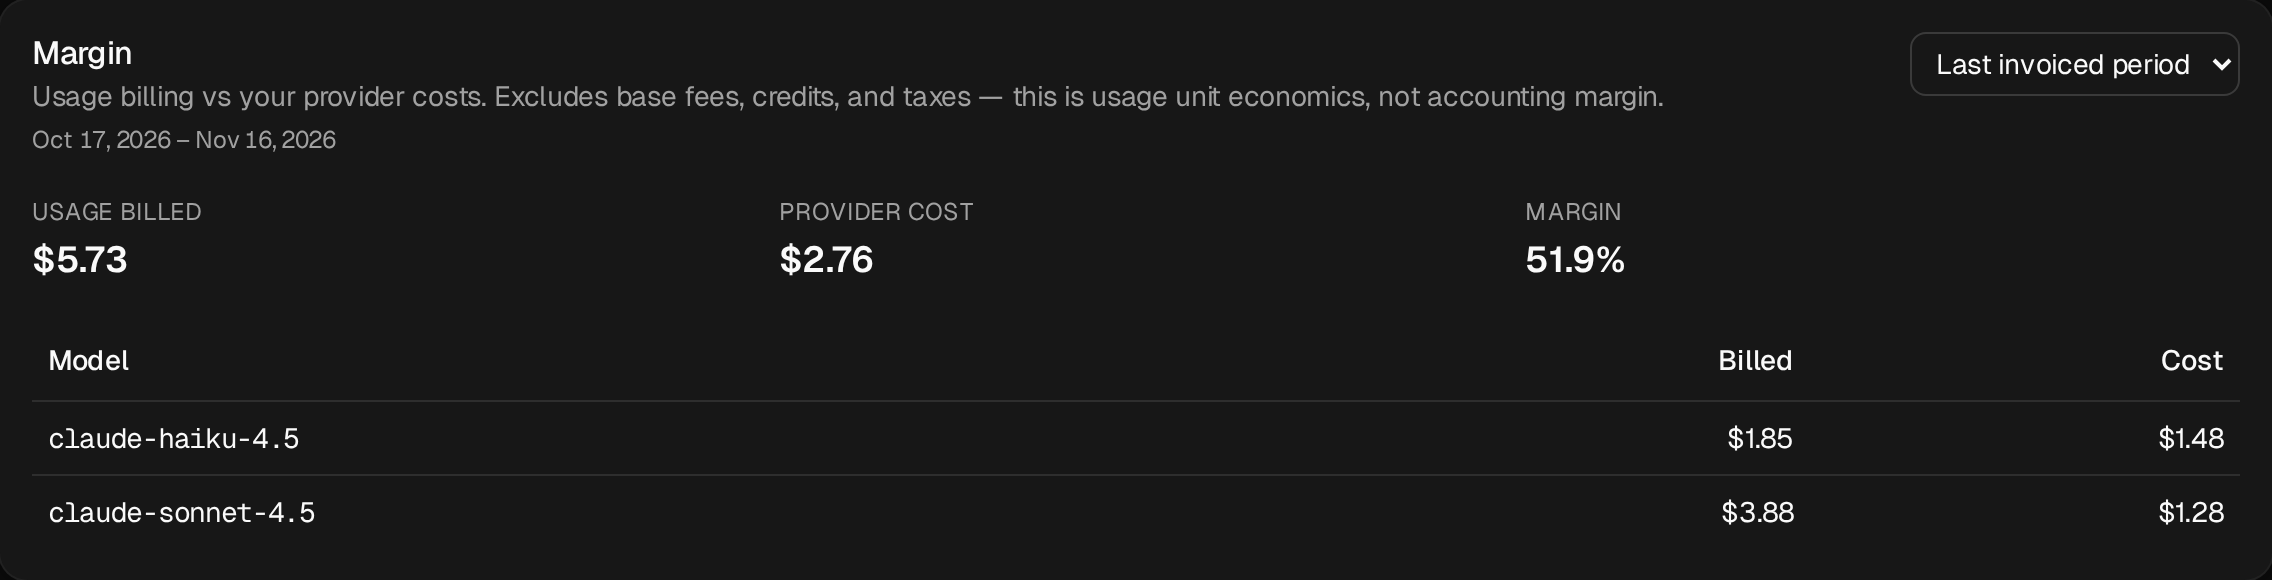
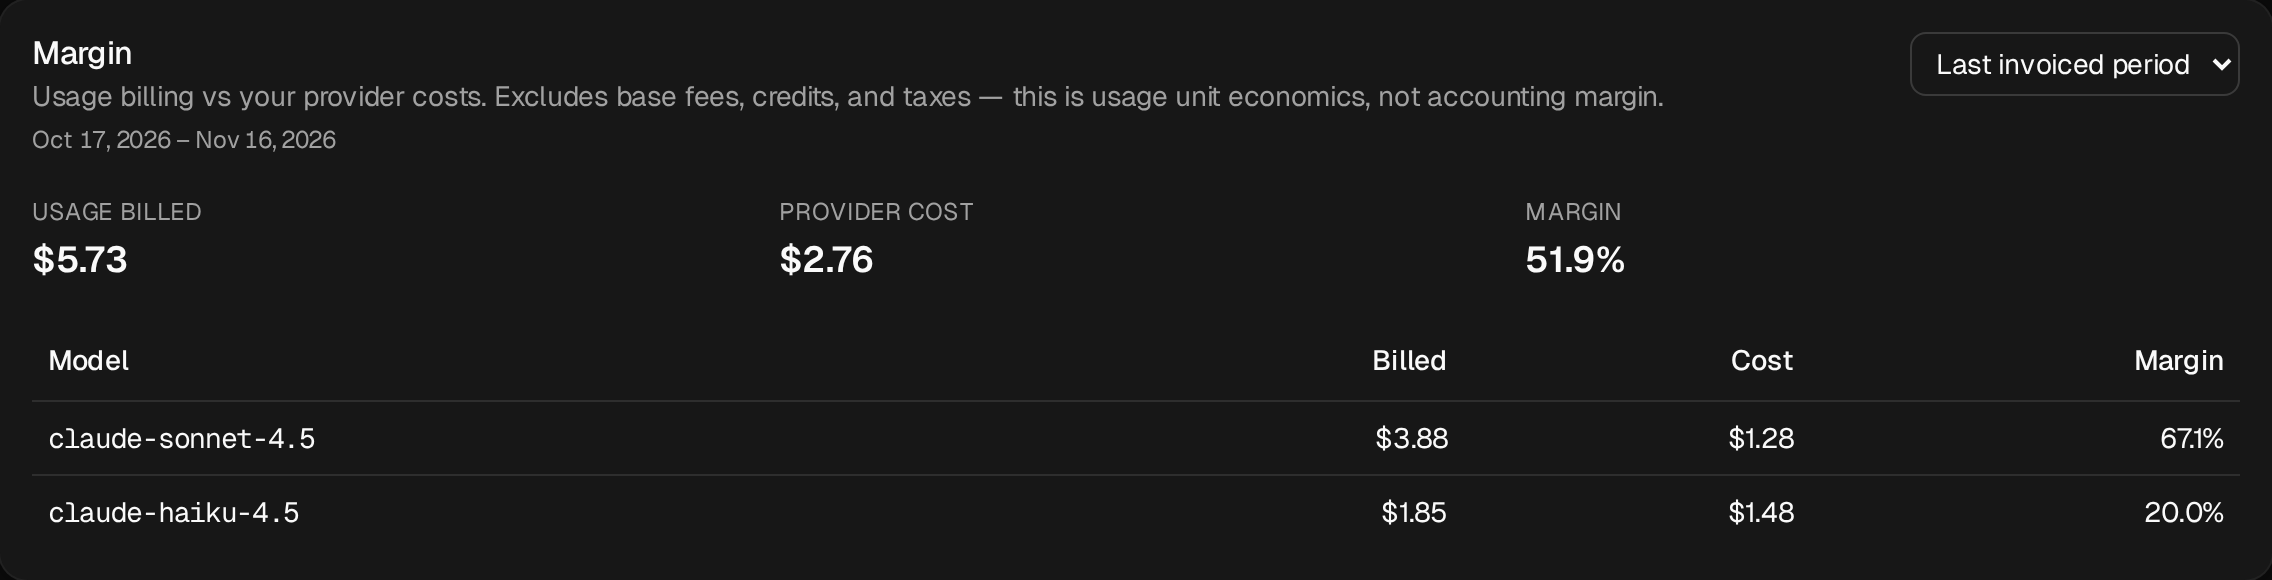
docs(readme): margin screenshots show each model's margin
Retaken in CI from demo.sh (seller "Northwind AI", Last invoiced
period, 1440 wide, deviceScaleFactor 2): claude-sonnet-4.5 67.1%,
claude-haiku-4.5 20.0%, total 51.9%. Alt text and quick start name the
new column.

diff --git a/README.md b/README.md
@@ -56,7 +56,7 @@ Margin (billed $5.73 vs provider cost $2.76)             51.9%
 
 <picture>
   <source media="(prefers-color-scheme: dark)" srcset="docs/assets/readme-margin-dark.png">
-  <img alt="The customer's margin card for the last invoiced period: $5.73 usage billed, $2.76 provider cost, 51.9% margin, and one row per model: claude-haiku-4.5 billed $1.85 at $1.48 cost, claude-sonnet-4.5 billed $3.88 at $1.28 cost." src="docs/assets/readme-margin-light.png" width="100%">
+  <img alt="The customer's margin card for the last invoiced period: $5.73 usage billed, $2.76 provider cost, 51.9% margin, and one row per model: claude-sonnet-4.5 billed $3.88 at $1.28 cost, 67.1% margin; claude-haiku-4.5 billed $1.85 at $1.48 cost, 20.0% margin." src="docs/assets/readme-margin-light.png" width="100%">
 </picture>
 
 One meter carries every token type, prices are stored exactly ($3.00 per 1M tokens), and the margin comes from the provider cost recorded on each event, so you see it for each model.

diff --git a/docs/quick-start.md b/docs/quick-start.md
@@ -213,7 +213,7 @@ At the end, the demo prints two links:
    follow the test clock." at the top. Below are the subscription, the
    recent invoices and a **Margin** card. The Margin card starts on the
    current period, which is the new, empty month. Choose **Last invoiced
-   period** in it to see the demo month, with a row for each model.
+   period** in it to see the demo month, with a row for each model and its margin.
 
 3. Look around in the left menu.
 
